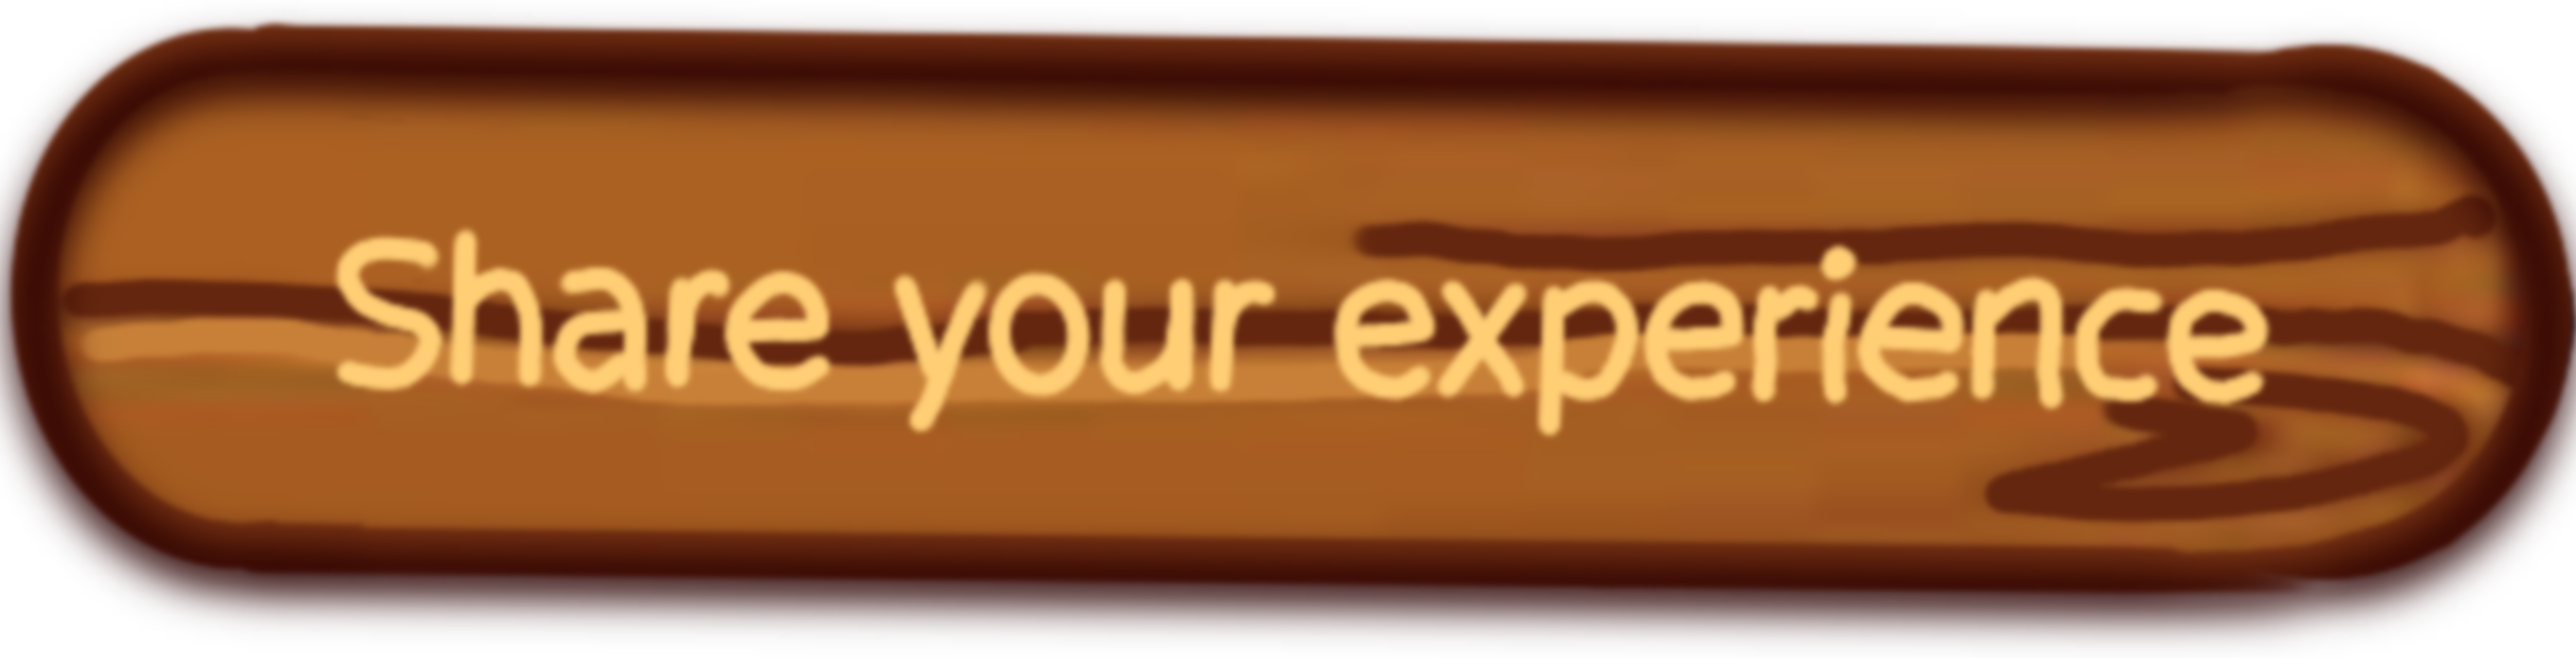
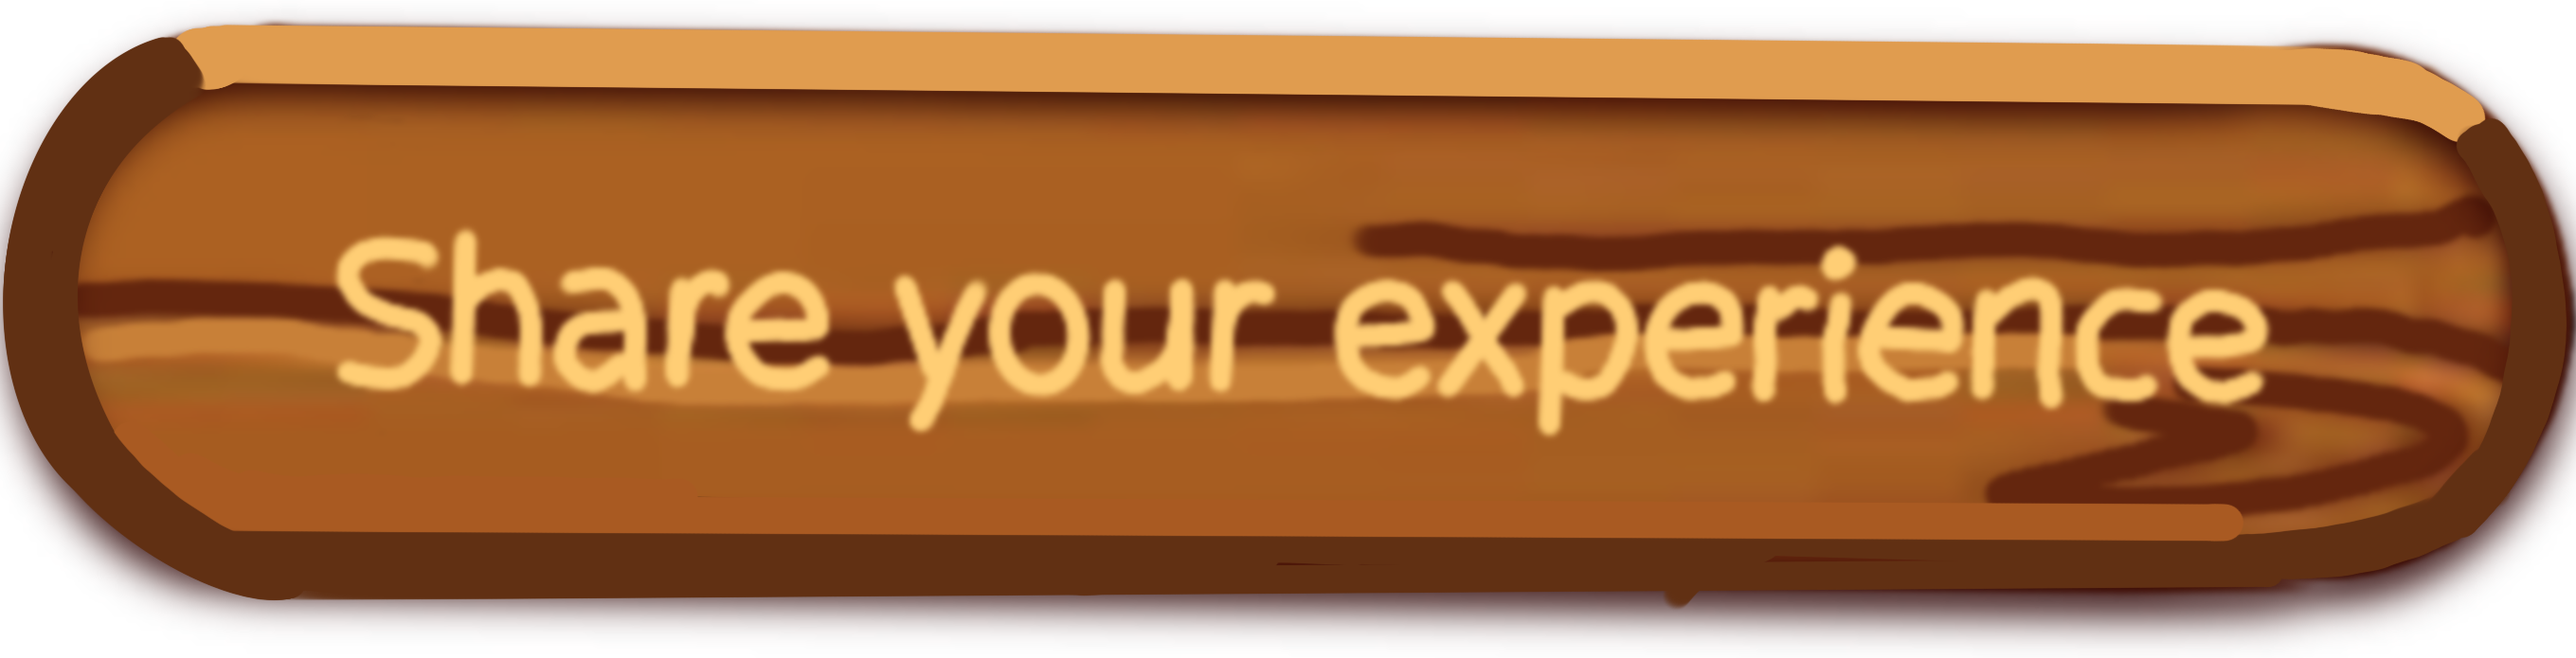
joij

Changed region(s): [[0.0, 0.0302, 1.0, 0.9367]]

diff --git a/src/uni_components/ExpandedTile.jsx b/src/uni_components/ExpandedTile.jsx
@@ -25,7 +25,7 @@ function ExpandedTile({club, onClose}){
     setTimeout(() => {
         setIsClicked(false);
         setAnimating(false);
-    }, 250); 
+    }, 350); 
     }
 
     useEffect(() => {
